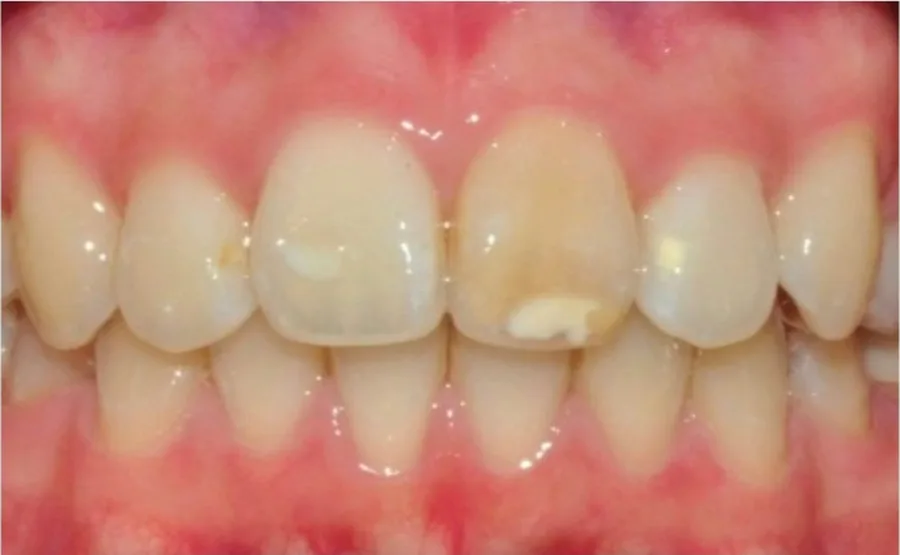
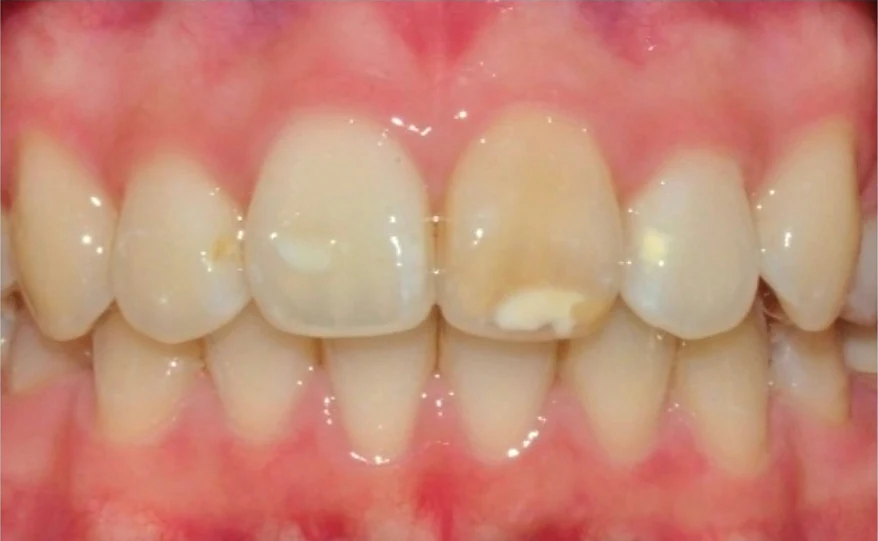
홈페이지 스튜디오: 07 e-스타치과 메인 배너 선명도 · 구도 개선
- 메인 배너 5장을 과하게 확대하던 방식에서, 원본에 가까운 크기의 선명한 사진 카드 구도로 변경
- 블로그 사진을 더 큰 원본으로 다시 받아 전후 사진 · 진료 타일 등 22장 교체 (선명도 보정)
- 밸런스형 메인 배너의 흰색 덮개를 약하게 조정, 글자 영역 폭 정리

Claude-Session: https://claude.ai/code/session_01BVC8BkH6G2bnmMVajSF5Yq

Changed region(s): [[0.0, 0.0, 1.0, 0.6506], [0.9841, 0.6802, 1.0, 1.0]]

diff --git a/hp-studio.html b/hp-studio.html
@@ -1823,7 +1823,7 @@ const T_BALANCE = {
 .qbar .blog{font:800 11px/24px Arial;width:30px;height:24px;border-radius:5px;background:#444;color:#fff}
 .qbar .tel{display:block;background:#1d1c1b;color:#fff;padding:12px 4px;border-top:1px solid #333}.qbar .tel small{display:block;font-size:11px;color:#aaa;margin-bottom:4px}.qbar .tel{padding-left:2px;padding-right:2px}.qbar .tel b{display:block;font-size:11px;line-height:1.2;letter-spacing:-.02em;white-space:nowrap}
 .bh{position:relative;height:100vh;min-height:640px;background:#f3f1ee;overflow:hidden}.bh .slide img{width:100%;height:100%;object-fit:cover}
-.bh .slide:after{content:'';position:absolute;inset:0;background:linear-gradient(90deg,rgba(255,255,255,.95) 0%,rgba(255,255,255,.82) 42%,rgba(255,255,255,.12) 74%,transparent)}
+.bh .slide:after{content:'';position:absolute;inset:0;background:linear-gradient(90deg,rgba(255,255,255,.72) 0%,rgba(255,255,255,.45) 34%,rgba(255,255,255,0) 58%)}.bh .l1,.bh .l2,.bh .s{text-shadow:0 0 18px rgba(255,255,255,.75)}.bh .cap .wrap>*{max-width:570px}
 .bh .cap{position:absolute;inset:0;z-index:2;display:flex;align-items:center}
 .bh .tag{display:inline-block;background:var(--pc);color:#fff;font-size:clamp(17px,1.7vw,24px);padding:6px 22px;margin-bottom:26px;font-weight:500}
 .bh .l1{font-size:clamp(28px,3.3vw,46px);font-weight:300;letter-spacing:-.03em;color:#333;line-height:1.3}
@@ -1886,7 +1886,7 @@ const T_BALANCE = {
 @media(max-width:1100px){.hd nav>a,.hd nav .mi-a{padding:0 14px;font-size:14px}.hd .rb{display:none}}
 @media(max-width:900px){.qbar{display:none}.hd .wrap{height:64px}.bt .grid,.bv .grid,.bf .grid{grid-template-columns:1fr}.bb .grid{grid-template-columns:1fr 1fr}.bf .col+.col{border-left:0;border-top:1px solid var(--line)}
 .bs .wrap{grid-template-columns:1fr}.bs .cform{grid-template-columns:1fr}.bs .cform .agree,.bs .cform button{grid-column:auto;grid-row:auto}.ft .wrap{grid-template-columns:1fr}.ba2 .in{margin:20px}.sec{padding:70px 0}
-.bi .en{letter-spacing:.2em}.bh .slide img{object-position:80% center}.bh{height:76vh;min-height:520px}.bh .slide:after{background:rgba(255,255,255,.78)}.bt .tile{height:260px}
+.bi .en{letter-spacing:.2em}.bh .slide img{object-position:80% center}.bh{height:76vh;min-height:520px}.bh .slide:after{background:linear-gradient(180deg,rgba(255,255,255,.7),rgba(255,255,255,.35))}.bt .tile{height:260px}
 .mbar2{display:grid;grid-template-columns:repeat(3,1fr);position:fixed;left:0;right:0;bottom:0;z-index:60;background:#1d1c1b;color:#fff;font-size:13px;text-align:center}.mbar2 a{padding:13px 0}.mbar2 a:first-child{background:var(--pc)}.ft{padding-bottom:90px}}
 `
 };

diff --git a/hp-view.html b/hp-view.html
@@ -1486,7 +1486,7 @@ const T_BALANCE = {
 .qbar .blog{font:800 11px/24px Arial;width:30px;height:24px;border-radius:5px;background:#444;color:#fff}
 .qbar .tel{display:block;background:#1d1c1b;color:#fff;padding:12px 4px;border-top:1px solid #333}.qbar .tel small{display:block;font-size:11px;color:#aaa;margin-bottom:4px}.qbar .tel{padding-left:2px;padding-right:2px}.qbar .tel b{display:block;font-size:11px;line-height:1.2;letter-spacing:-.02em;white-space:nowrap}
 .bh{position:relative;height:100vh;min-height:640px;background:#f3f1ee;overflow:hidden}.bh .slide img{width:100%;height:100%;object-fit:cover}
-.bh .slide:after{content:'';position:absolute;inset:0;background:linear-gradient(90deg,rgba(255,255,255,.95) 0%,rgba(255,255,255,.82) 42%,rgba(255,255,255,.12) 74%,transparent)}
+.bh .slide:after{content:'';position:absolute;inset:0;background:linear-gradient(90deg,rgba(255,255,255,.72) 0%,rgba(255,255,255,.45) 34%,rgba(255,255,255,0) 58%)}.bh .l1,.bh .l2,.bh .s{text-shadow:0 0 18px rgba(255,255,255,.75)}.bh .cap .wrap>*{max-width:570px}
 .bh .cap{position:absolute;inset:0;z-index:2;display:flex;align-items:center}
 .bh .tag{display:inline-block;background:var(--pc);color:#fff;font-size:clamp(17px,1.7vw,24px);padding:6px 22px;margin-bottom:26px;font-weight:500}
 .bh .l1{font-size:clamp(28px,3.3vw,46px);font-weight:300;letter-spacing:-.03em;color:#333;line-height:1.3}
@@ -1549,7 +1549,7 @@ const T_BALANCE = {
 @media(max-width:1100px){.hd nav>a,.hd nav .mi-a{padding:0 14px;font-size:14px}.hd .rb{display:none}}
 @media(max-width:900px){.qbar{display:none}.hd .wrap{height:64px}.bt .grid,.bv .grid,.bf .grid{grid-template-columns:1fr}.bb .grid{grid-template-columns:1fr 1fr}.bf .col+.col{border-left:0;border-top:1px solid var(--line)}
 .bs .wrap{grid-template-columns:1fr}.bs .cform{grid-template-columns:1fr}.bs .cform .agree,.bs .cform button{grid-column:auto;grid-row:auto}.ft .wrap{grid-template-columns:1fr}.ba2 .in{margin:20px}.sec{padding:70px 0}
-.bi .en{letter-spacing:.2em}.bh .slide img{object-position:80% center}.bh{height:76vh;min-height:520px}.bh .slide:after{background:rgba(255,255,255,.78)}.bt .tile{height:260px}
+.bi .en{letter-spacing:.2em}.bh .slide img{object-position:80% center}.bh{height:76vh;min-height:520px}.bh .slide:after{background:linear-gradient(180deg,rgba(255,255,255,.7),rgba(255,255,255,.35))}.bt .tile{height:260px}
 .mbar2{display:grid;grid-template-columns:repeat(3,1fr);position:fixed;left:0;right:0;bottom:0;z-index:60;background:#1d1c1b;color:#fff;font-size:13px;text-align:center}.mbar2 a{padding:13px 0}.mbar2 a:first-child{background:var(--pc)}.ft{padding-bottom:90px}}
 `
 };
